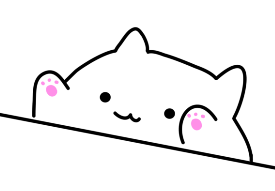
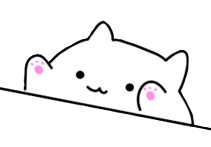
made bongocat opaque, created corgi cursor

diff --git a/content-script.js b/content-script.js
@@ -39,12 +39,9 @@ bongo.style.top = Math.floor(Math.random() * (window.innerHeight - bongo.height)
 //append bongo to body
 body.appendChild(bongo);
 
-// adding dog as our cursor
-const doggoImageURL = chrome.runtime.getURL('image/mini_corgi_cursor.png');
-console.log(doggoImageURL);
 
 // I need to figure out how to access and change cursor in content-script file
-
+// figured it out. put in css file with url routed to chrome extension link of corgi cursor
 
 
 

diff --git a/styles.css b/styles.css
@@ -3,6 +3,9 @@ h1 {
     font-size: 14px;
 }
 
+body {
+    cursor: url('chrome-extension://hbjfonmollehhofekeefoihbbfeoajgc/image/mini_corgi_cursor.png'), default;
+}
 .logo {
     width: 200px;
     height: 120px;
